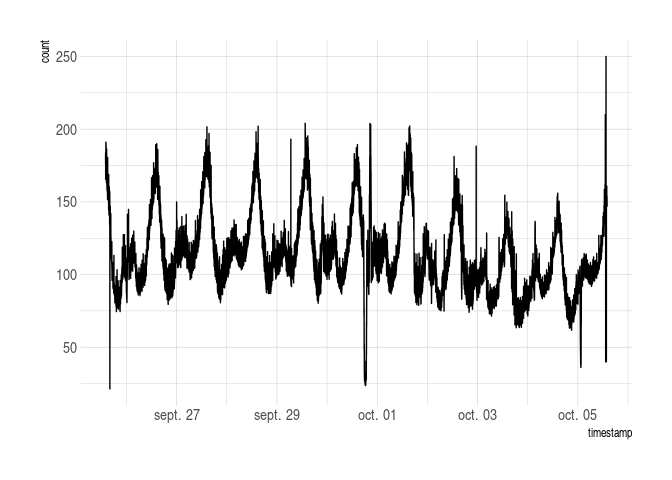
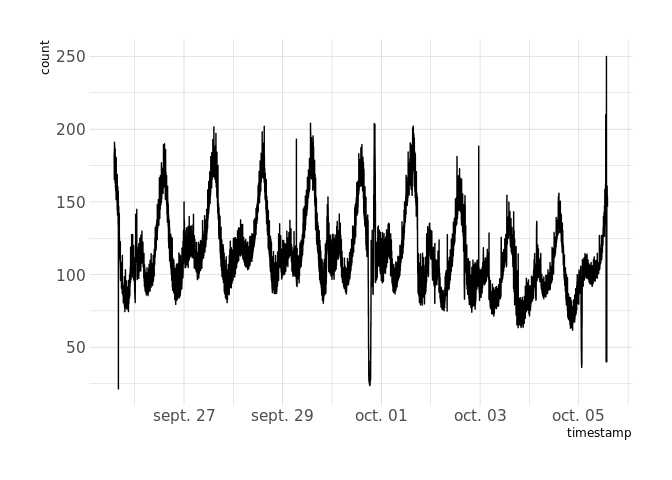
Improve README

diff --git a/README.md b/README.md
@@ -37,21 +37,31 @@ library(warp10r)
 
 # Create a connection
 con <- wrp_connect(endpoint = "https://warp.senx.io/api/v0/exec")
+print(con)
+#> Warp10 connexion:
+#> - endpoint: https://warp.senx.io/api/v0/exec
+#> - token:    available
+#> - stack:    empty
 
-# set_script store a script in the connection object and print the script as it is.
+# set_script store a script in the connection object.
 set_script(con, "'Hello World'")
-#> 1 elements in the stack : map
 set_script(con, "NOW")
-#> 2 elements in the stack : map, map
-cat("\n", get_script(con))
-#> 
-#>   'Hello World' 
+print(con)
+#> Warp10 connexion:
+#> - endpoint: https://warp.senx.io/api/v0/exec
+#> - token:    available
+#> - stack:    map, map
+
+# We can see the script
+cat(get_script(con))
+#>  'Hello World' 
 #>  NOW
+
 
 # Execute the script
 wrp_exec(con)
 #> [[1]]
-#> [1] 1.572865e+15
+#> [1] 1.573809e+15
 #> 
 #> [[2]]
 #> [1] "Hello World"
@@ -77,34 +87,34 @@ con %>%
 #> [[1]]
 #> # A GTS object: 10 x 2
 #> # class:        nogeoTS
-#>    timestamp   value
-#>  *     <dbl>   <dbl>
-#>  1         2  0.793 
-#>  2         3 -0.695 
-#>  3         4 -0.228 
-#>  4         5  0.0720
-#>  5         6 -0.634 
-#>  6         7  0.217 
-#>  7         8 -0.0588
-#>  8         9  0.181 
-#>  9        10  0.509 
-#> 10        11  1.28  
+#>    timestamp  value
+#>  *     <dbl>  <dbl>
+#>  1         2 -0.320
+#>  2         3 -1.15 
+#>  3         4 -0.500
+#>  4         5 -0.877
+#>  5         6 -0.234
+#>  6         7 -0.227
+#>  7         8  0.569
+#>  8         9 -0.514
+#>  9        10  2.17 
+#> 10        11 -1.24 
 #> 
 #> [[2]]
 #> # A GTS object: 10 x 2
 #> # class:        randGTS
 #>    timestamp   value
 #>  *     <dbl>   <dbl>
-#>  1         1  1.000 
-#>  2         2  1.62  
-#>  3         3 -0.903 
-#>  4         4  1.54  
-#>  5         5 -1.06  
-#>  6         6  0.714 
-#>  7         7 -0.0429
-#>  8         8 -0.913 
-#>  9         9  0.0384
-#> 10        10 -0.294
+#>  1         1 -1.66  
+#>  2         2  0.632 
+#>  3         3  0.0918
+#>  4         4 -1.78  
+#>  5         5 -0.0555
+#>  6         6  0.132 
+#>  7         7 -0.784 
+#>  8         8 -0.447 
+#>  9         9 -0.435 
+#> 10        10  0.432
 ```
 
 ## Outlier detection
@@ -143,7 +153,7 @@ data("raw_data")
 raw_data %>% 
   ggplot(aes(timestamp, count)) + 
   geom_line() +
-  theme_ipsum()
+  theme_ipsum(base_family = "Verdana")
 ```
 
 <img src="man/figures/README-unnamed-chunk-4-1.png" width="100%" />
@@ -162,7 +172,7 @@ df <- raw_data %>%
 df %>% 
   ggplot(aes(date_hour, count)) +
   geom_line() +
-  theme_ipsum()
+  theme_ipsum(base_family = "Verdana")
 ```
 
 <img src="man/figures/README-unnamed-chunk-5-1.png" width="100%" />
@@ -178,6 +188,17 @@ res <- con %>%
   wrp_hybridtest(period = 8, piece = 4, k = 4) %>% 
   wrp_exec()
 
+print(res)
+#> [[1]]
+#> [[1]][[1]]
+#> [1] 3.389256e+14
+#> 
+#> [[1]][[2]]
+#> [1] 3.392712e+14
+#> 
+#> [[1]][[3]]
+#> [1] 3.39606e+14
+
 # Results is a list of abnormal dates in microseconds
 res_dbl <- map_dbl(res[[1]], ~ .x / 1e6)
 
@@ -185,7 +206,7 @@ df %>%
   ggplot(aes(date_hour, count)) +
   geom_line() +
   geom_vline(xintercept = res_dbl, linetype = 2, color = "red") +
-  theme_ipsum()
+  theme_ipsum(base_family = "Verdana")
 ```
 
 <img src="man/figures/README-unnamed-chunk-6-1.png" width="100%" />
